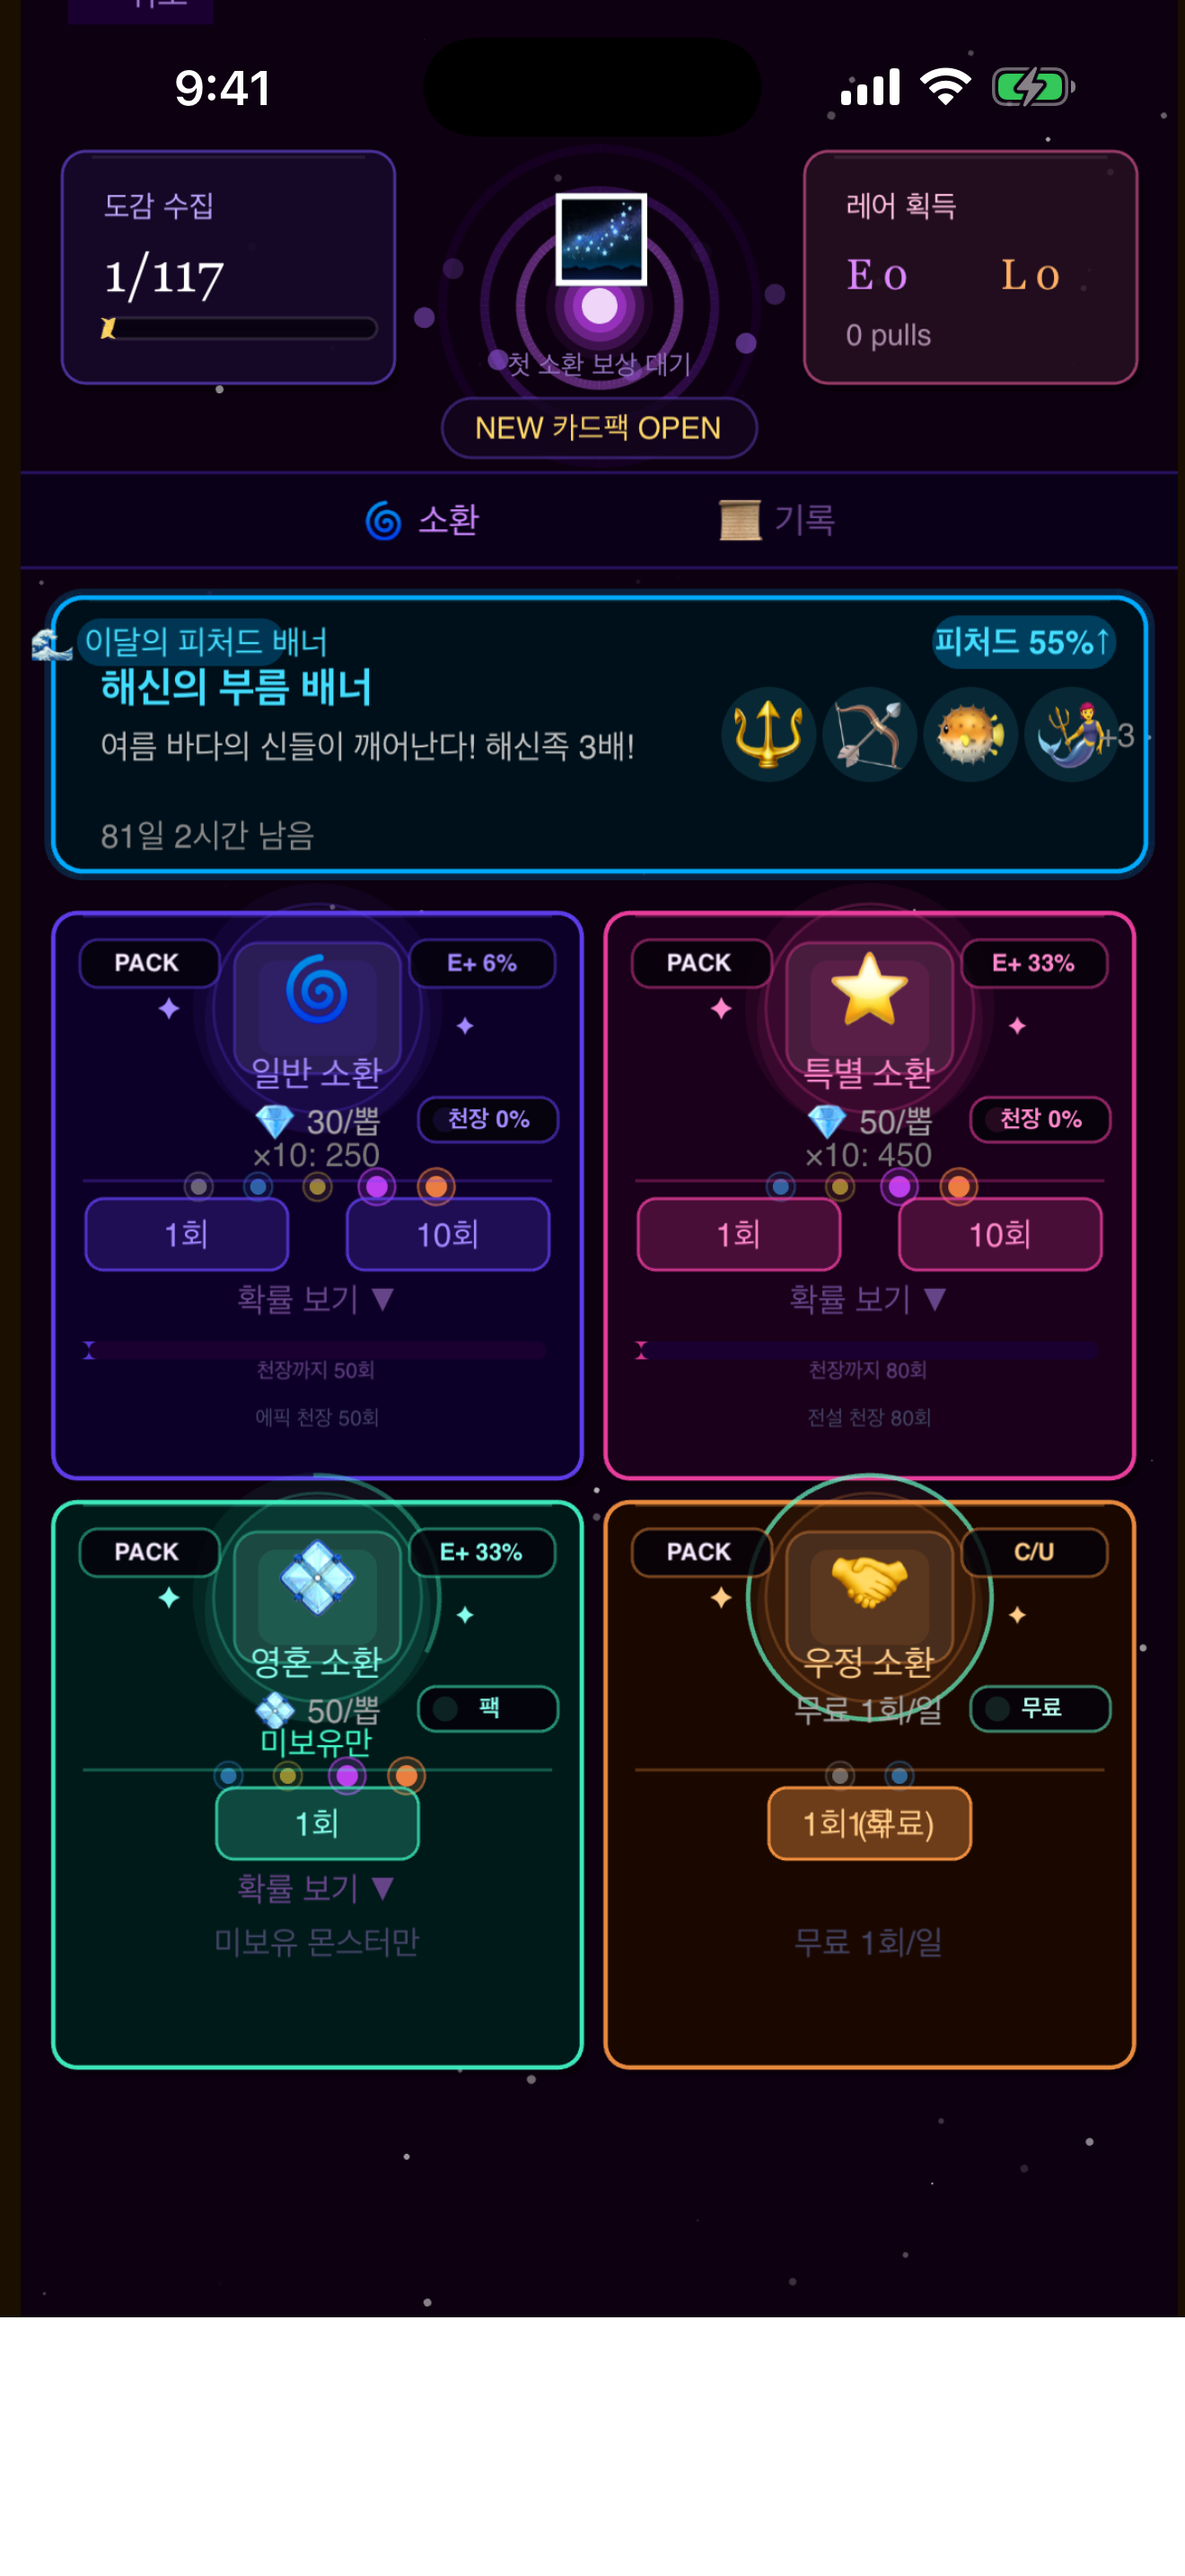
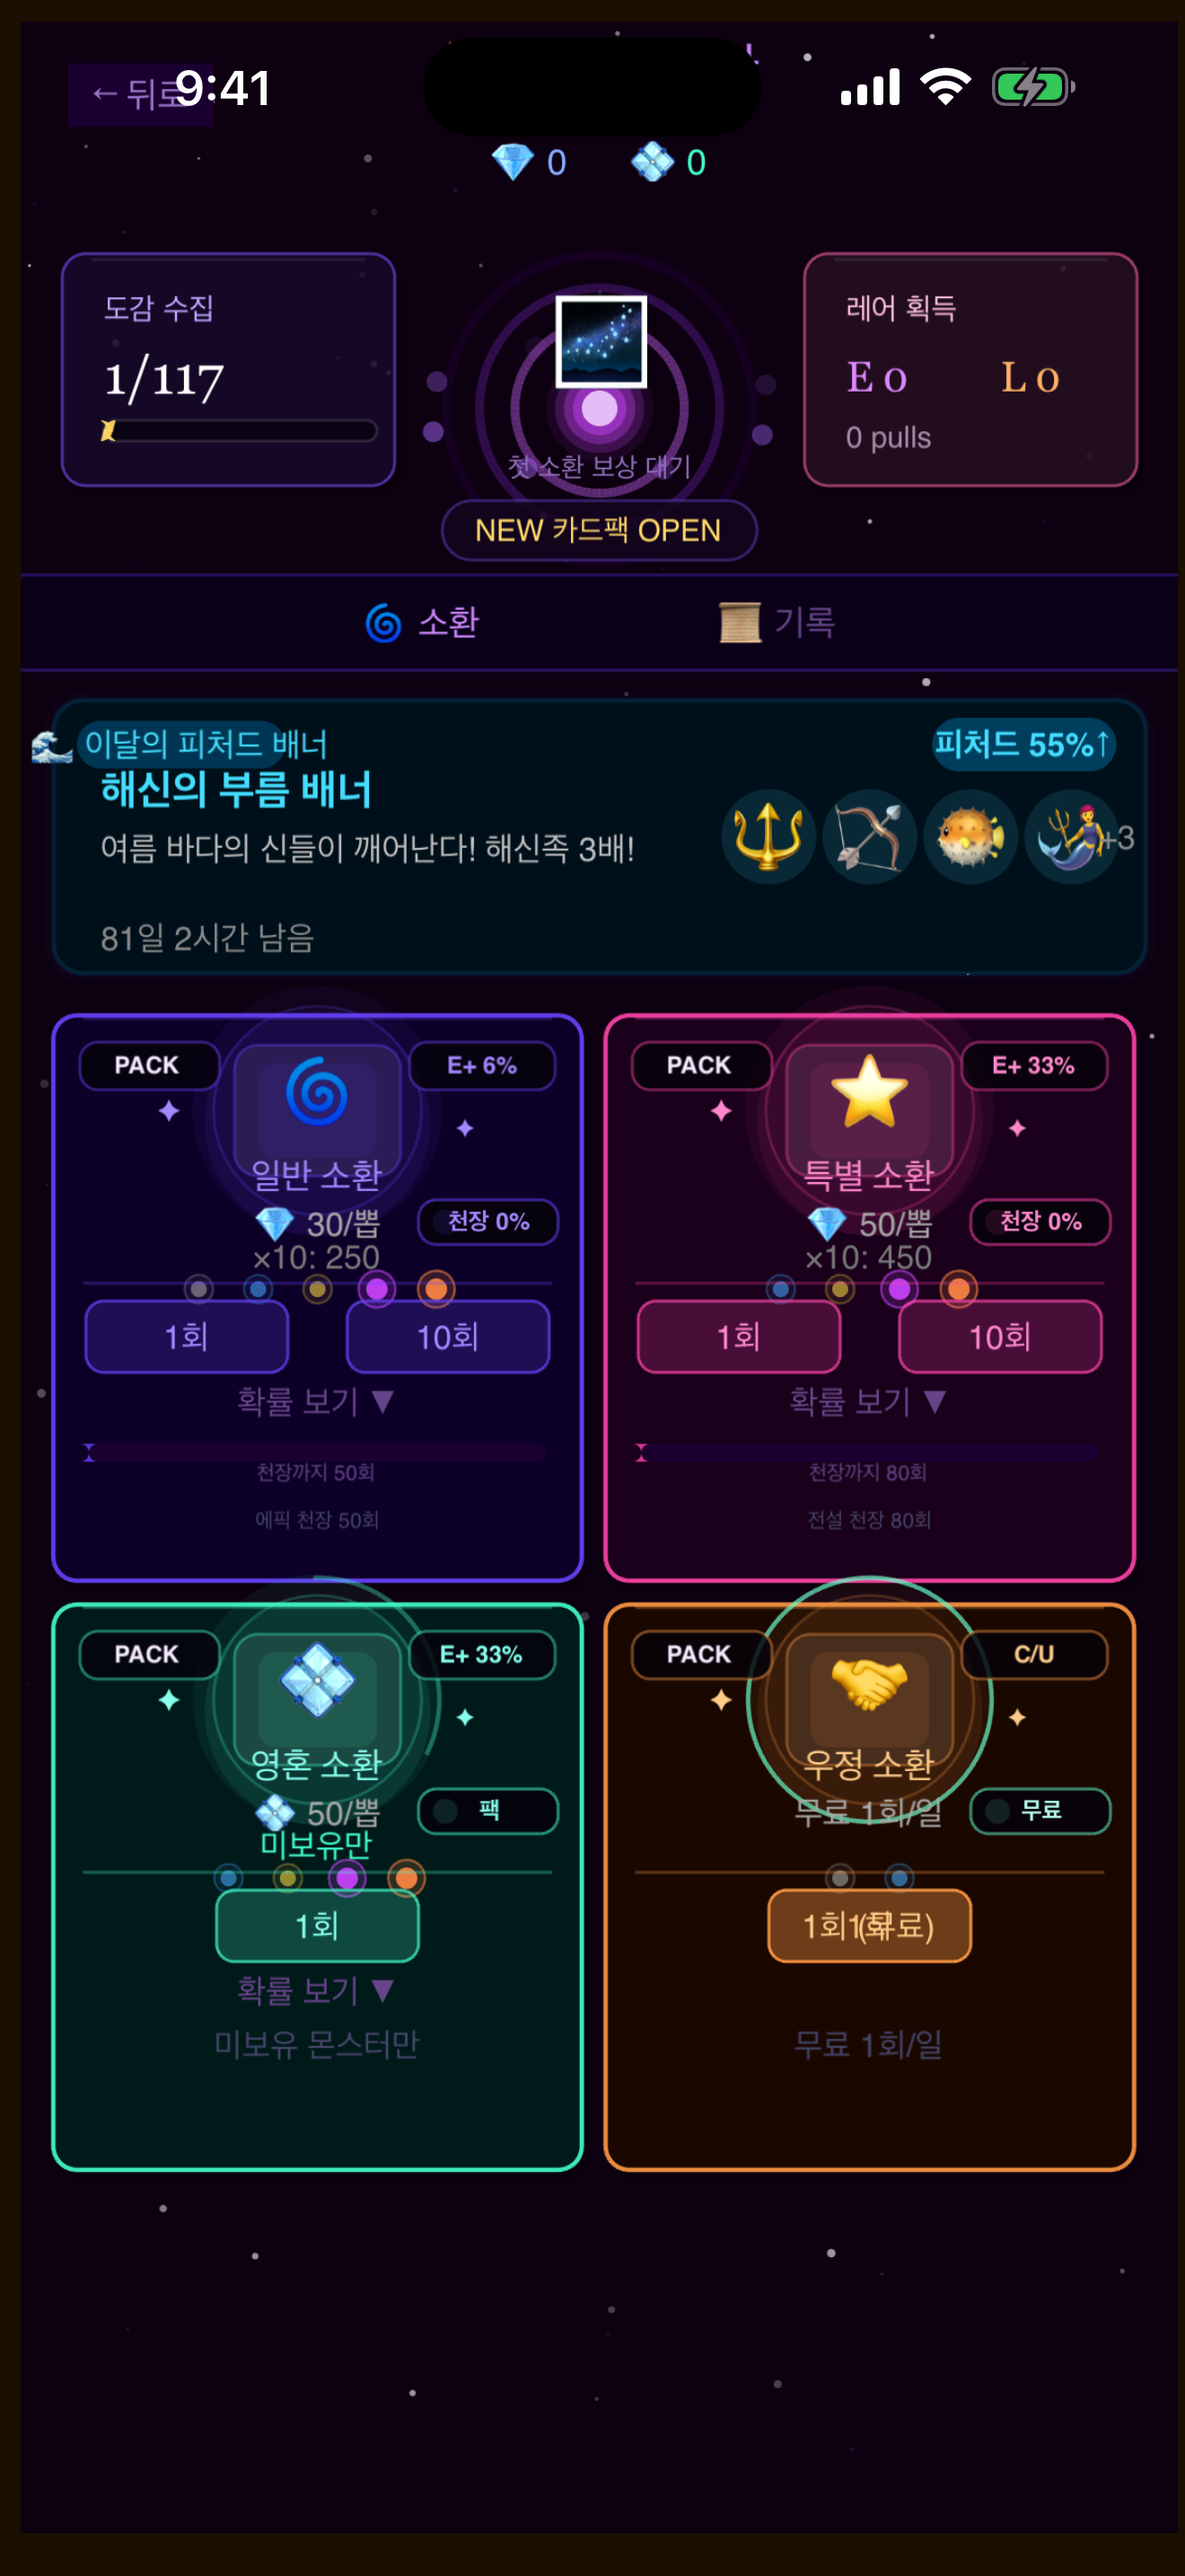
fix: Safe Area 가림 해결 — 캔버스를 노치/Dynamic Island 밖으로 + 스토어 스크린샷 재촬영
문제: 모든 씬의 상단 헤더가 노치 기기에서 Dynamic Island에 가려짐
(safeArea.ts 헬퍼는 UIScene만 사용, 나머지 15개 씬 미적용 + contentInset
'always'가 env(safe-area-inset-*)를 0으로 만들어 헬퍼도 무력화)

전역 해법 (씬별 수정 불필요):
- capacitor.config.ts: ios.contentInset 'always' → 'never' (env()가 실제 인셋 보고)
- index.html: body에 env(safe-area-inset-*) 패딩 + #game-root 컨테이너
- main.ts: Phaser parent를 game-root로 (FIT가 안전 영역 안에서 스케일)
- UIScene: 이중 적용되던 per-element 오프셋 제거
- main.ts: ?skipTutorial=1 시드 파라미터 추가 (DEV 전용)

스크린샷 5종 재촬영 — 타이틀·상단바 모두 아일랜드 아래 정상 표시 확인
(시뮬레이터 iPhone 17 Pro Max, 1320×2868)

diff --git a/src/main.ts b/src/main.ts
@@ -62,7 +62,7 @@ const config = {
   width:  CANVAS_WIDTH  * dpr,
   height: CANVAS_HEIGHT * dpr,
   backgroundColor: '#1a0f00',
-  parent: document.body,
+  parent: 'game-root',
   render: {
     antialias:    true,
     antialiasGL:  true,
@@ -103,8 +103,14 @@ window.__phaserGame = game;
 window.__gameDpr = dpr;
 
 // DEV-only: jump straight to a scene for screenshot/QA runs (?scene=SummonScene)
+// Optional ?skipTutorial=1 marks the tutorial as done before the game boots.
 if (import.meta.env.DEV) {
-  const targetScene = new URLSearchParams(window.location.search).get('scene');
+  const params = new URLSearchParams(window.location.search);
+  if (params.get('skipTutorial')) {
+    const raw = JSON.parse(localStorage.getItem('dungeonGameState') ?? '{}') as Record<string, unknown>;
+    localStorage.setItem('dungeonGameState', JSON.stringify({ ...raw, tutorialStage: 99 }));
+  }
+  const targetScene = params.get('scene');
   if (targetScene) {
     // Wait for the normal Boot → Home flow to settle, then swap to the target.
     const jump = window.setInterval(() => {

diff --git a/index.html b/index.html
@@ -29,11 +29,25 @@
         display: flex;
         justify-content: center;
         align-items: center;
+        /* Keep the game canvas out of the notch/Dynamic Island and home bar.
+           Phaser FIT mode scales into the padded box, so scenes don't need
+           per-element safe-area offsets. */
+        padding-top: var(--sat);
+        padding-bottom: var(--sab);
+        padding-left: var(--sal);
+        padding-right: var(--sar);
       }
       canvas { display: block; touch-action: none; }
+      /* Sized by body's content box (padding excluded) — Phaser FIT measures
+         this element, so the canvas always lands inside the safe area. */
+      #game-root {
+        width: 100%; height: 100%;
+        display: flex; justify-content: center; align-items: center;
+      }
     </style>
   </head>
   <body>
+    <div id="game-root"></div>
     <script type="module" src="/src/main.ts"></script>
   </body>
 </html>

diff --git a/src/scenes/UIScene.ts b/src/scenes/UIScene.ts
@@ -1,7 +1,6 @@
 import Phaser from 'phaser';
 import { COLORS, CSS } from '../constants/colors';
 import { CANVAS_WIDTH, CANVAS_HEIGHT, TOP_BAR_HEIGHT } from '../constants/layout';
-import { getGameSafeArea } from '../constants/safeArea';
 
 export class UIScene extends Phaser.Scene {
   private goldText!: Phaser.GameObjects.Text;
@@ -30,8 +29,9 @@ export class UIScene extends Phaser.Scene {
   constructor() { super({ key: 'UIScene' }); }
 
   create(): void {
-    // Safe area offset — pushes all HUD elements below the device notch/status bar
-    const { top: st } = getGameSafeArea(this.scale.displayScale.x);
+    // Safe area is handled globally: index.html pads <body> with env(safe-area-inset-*),
+    // so the canvas never sits under the notch — no per-element offset needed.
+    const st = 0;
     this.safeTop = st;
 
     this.drawBar();

diff --git a/capacitor.config.ts b/capacitor.config.ts
@@ -8,7 +8,10 @@ const config: CapacitorConfig = {
     androidScheme: 'https',
   },
   ios: {
-    contentInset: 'always',
+    // 'never' lets env(safe-area-inset-*) report real notch insets inside the
+    // WebView — index.html pads <body> with them so the canvas avoids the
+    // Dynamic Island/home bar. ('always' zeroes env() via scroll insets.)
+    contentInset: 'never',
   },
   plugins: {
     SplashScreen: {

diff --git a/tools/release-checklist.md b/tools/release-checklist.md
@@ -34,8 +34,8 @@ ios/App/App/Assets.xcassets/AppIcon.appiconset/
 
 ### 5. 스크린샷 촬영 (Simulator)
 > ✅ 2026-06-11 — `tools/screenshots/01~05.png` 캡처 완료 (iPhone 17 Pro Max, 1320×2868 6.9")
-> 방법: dev 서버 `?scene=` 파라미터(main.ts DEV 전용) + simctl screenshot. 상태바 9:41 정리.
-> ⚠ 발견: 상단 헤더가 Dynamic Island에 가려짐 — Safe Area top inset 미적용 (수정 필요, 수정 후 재촬영 권장)
+> 방법: dev 서버 `?scene=`/`?skipTutorial=1` 파라미터(main.ts DEV 전용) + simctl screenshot. 상태바 9:41 정리.
+> ✅ Safe Area 가림 발견 → 수정 완료 (contentInset 'never' + body env() 패딩 + #game-root) → 전체 재촬영
 ```
 iPhone 15 Pro Max (6.7") — 필수
 iPad Pro 12.9" (6세대) — 권장
@@ -154,7 +154,7 @@ jarsigner -verbose -sigalg SHA1withRSA -digestalg SHA1 \
 - [ ] 배터리 과소비 없음
 
 ### UI 확인
-- [ ] Safe Area 적용 (노치/Dynamic Island 영역)
+- [x] Safe Area 적용 (노치/Dynamic Island 영역) (2026-06-11 — iPhone 17 Pro Max 시뮬레이터에서 5개 씬 검증)
 - [x] 가로 화면 잠금 (세로 전용) (2026-06-11 — iOS Info.plist Portrait 전용 + UIRequiresFullScreen, Android screenOrientation="portrait")
 - [ ] 다크 모드 무관 (게임 자체 테마)
 
